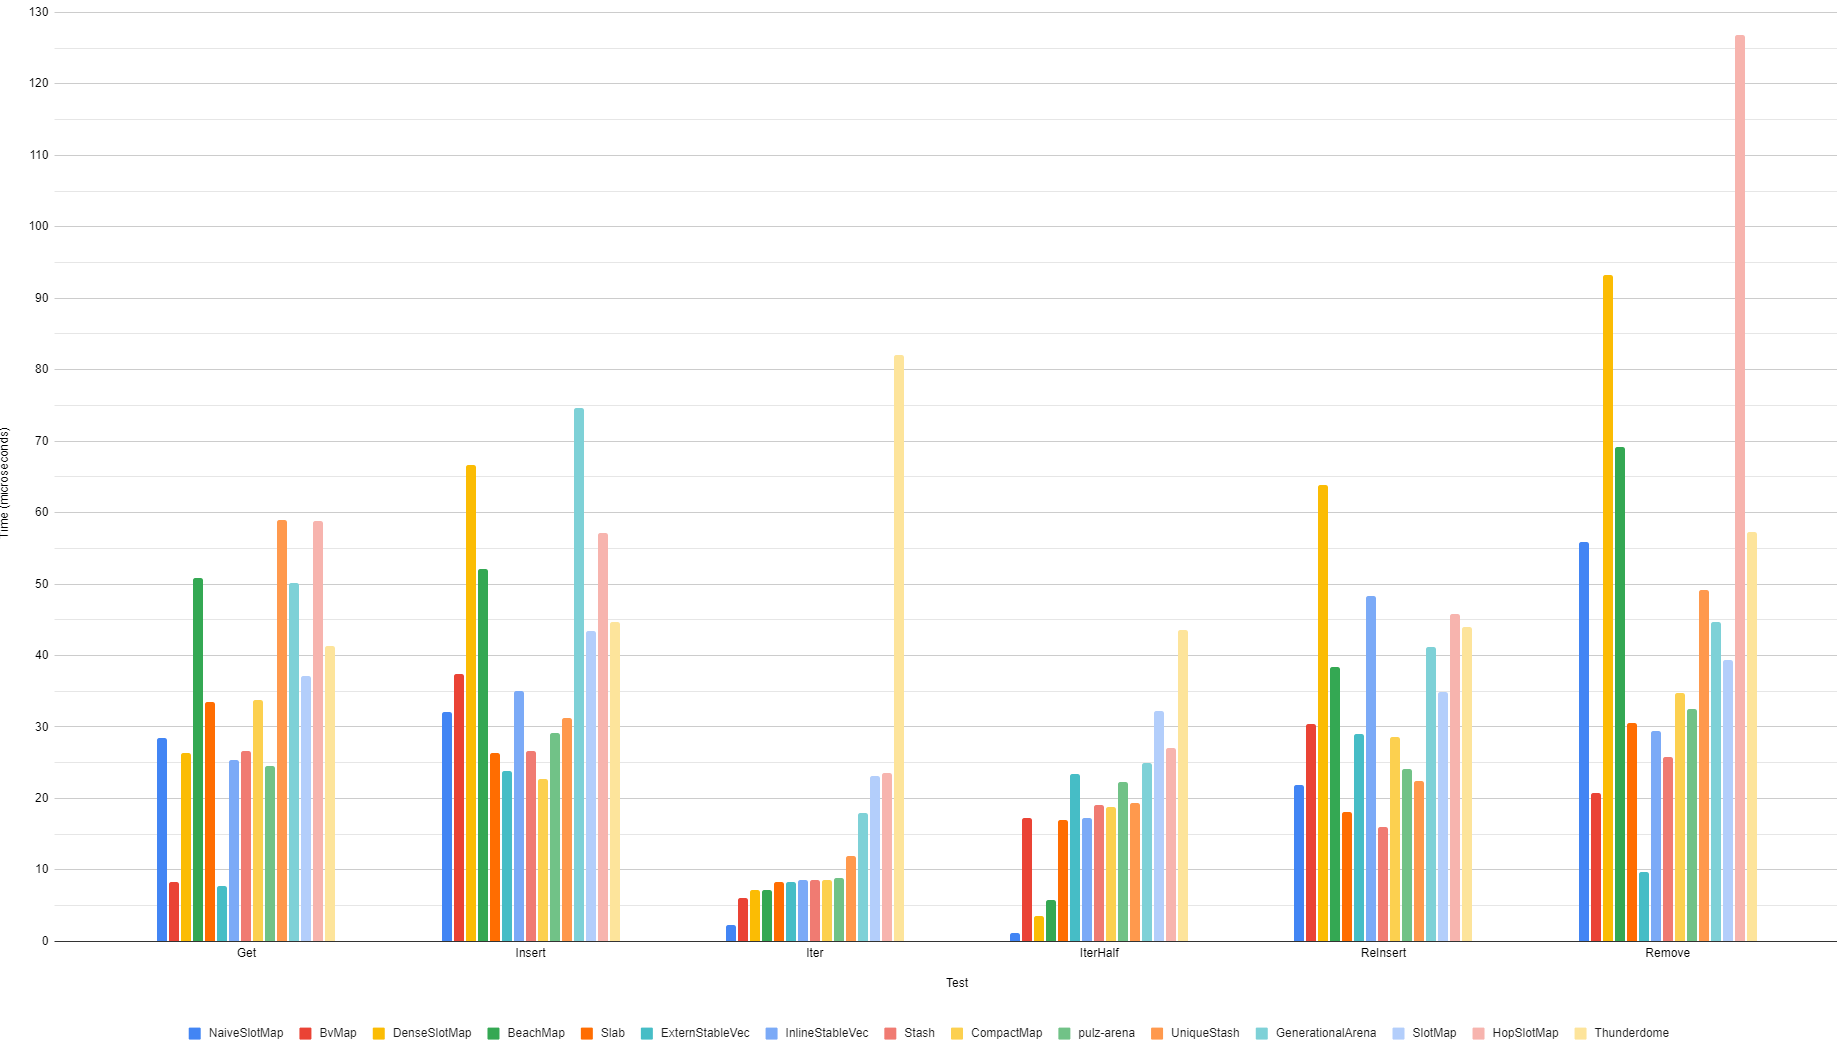
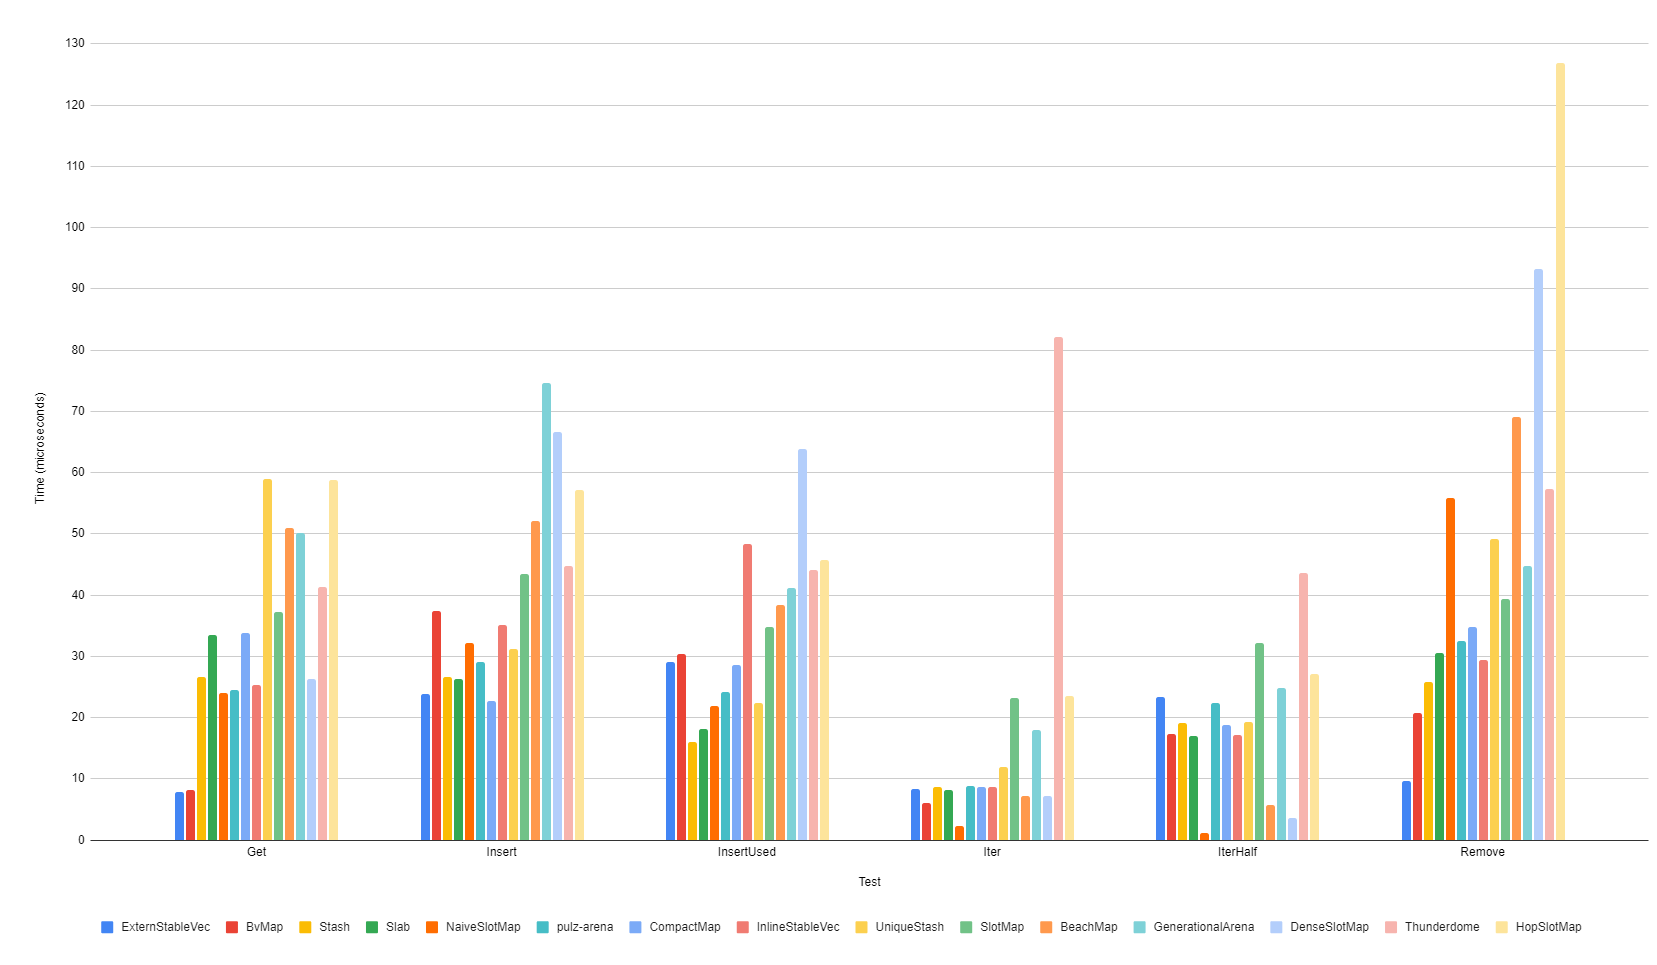
Rearrange

Changed region(s): [[0.0616, 0.0311, 0.9849, 0.9948], [0.0616, 0.3731, 0.3693, 0.9016], [0.0, 0.4041, 0.0308, 0.4974]]

diff --git a/benches/basic.rs b/benches/basic.rs
@@ -35,7 +35,7 @@ fn inserts(c: &mut Criterion) {
 
 fn reinserts(c: &mut Criterion) {
     let size = 10_000;
-    let mut g = c.benchmark_group("ReInsert");
+    let mut g = c.benchmark_group("InsertUsed");
     for test in self::tests() {
         g.bench_function(test.name(), |b| {
             test.reinsert(b, size);

diff --git a/README.md b/README.md
@@ -1,13 +1,13 @@
 # Procedure
-
-| Test     | Setup                                                                                        | Benchmark                            |
-|----------|----------------------------------------------------------------------------------------------|--------------------------------------|
-| Get      | - Create an empty arena.<br>- Insert 10,000 entities.                                        | Get 10,000 entities randomly.        |
-| Insert   | - Create an empty arena.                                                                     | Insert 10,000 entities.              |
-| Iter     | - Create an empty arena.<br>- Insert 10,000 entities.                                        | Iterate over the arena sequentially. |
-| IterHalf | - Create an empty arena.<br>- Insert 10,000 entities.<br>- Remove 5,000 entities randomly.   | Iterate over the arena sequentially. |
-| Reinsert | - Create an empty arena.<br>- Insert 10,000 entities.<br>- Remove all entities sequentially. | Insert 10,000 entities.              |
-| Remove   | - Create an empty arena.<br>- Insert 10,000 entities.<br>- Remove all entities sequentially. | Remove all entities randomly.        |
+  
+| Test       | Setup                                                                                        | Benchmark                            |
+|------------|----------------------------------------------------------------------------------------------|--------------------------------------|
+| Get        | - Create an empty arena.<br>- Insert 10,000 entities.                                        | Get 10,000 entities randomly.        |
+| Insert     | - Create an empty arena.                                                                     | Insert 10,000 entities.              |
+| InsertUsed | - Create an empty arena.<br>- Insert 10,000 entities.<br>- Remove all entities sequentially. | Insert 10,000 entities.              |
+| Iter       | - Create an empty arena.<br>- Insert 10,000 entities.                                        | Iterate over the arena sequentially. |
+| IterHalf   | - Create an empty arena.<br>- Insert 10,000 entities.<br>- Remove 5,000 entities randomly.   | Iterate over the arena sequentially. |
+| Remove     | - Create an empty arena.<br>- Insert 10,000 entities.<br>- Remove all entities sequentially. | Remove all entities randomly.        |
 
 # Benchmarks: Generational Arenas
 This includes benchmarks for crates typically considered to be generational arenas. `idvec` is
